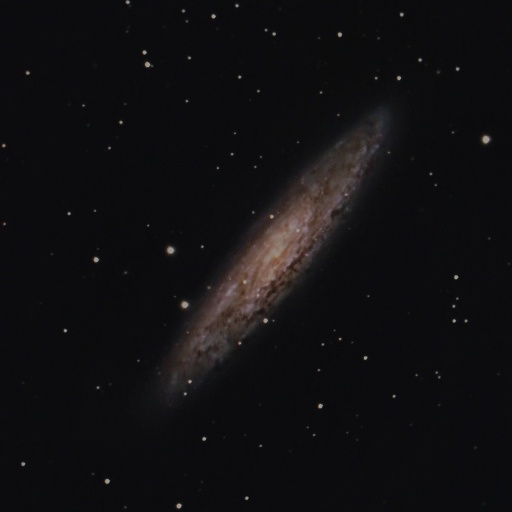
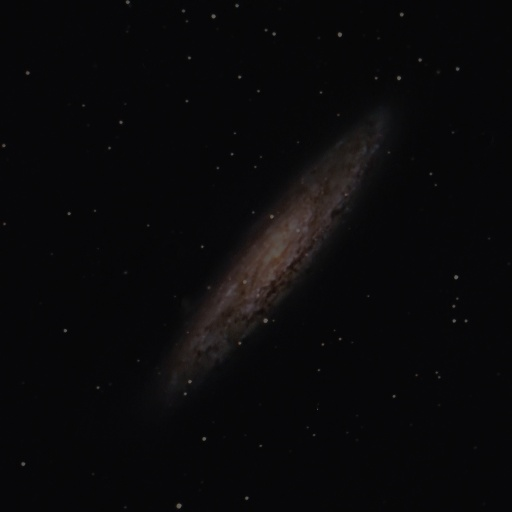
* Added four additional asteroid types. * Made background darker and removed some of the brighter stars which could be seen as asteroids. * Changed starship size to 75%. * Laser now behaves more like in original asteroids (Wraps at screen edge) * Particles now have random speeds and fade out. * lase

diff --git a/src/main/javascript/jsteroids.js b/src/main/javascript/jsteroids.js
@@ -8,42 +8,84 @@ jsteroids.imagesDir = "images";
 jsteroids.backgrounds = 1;
 
 /** The number of available asteroid types. @type {Number} */
-jsteroids.asteroids = 1;
+jsteroids.asteroids = 5;
 
 /** The asteroid bounds. @private @type {Array} */
 jsteroids.ASTEROID_BOUNDS = [
     new twodee.Polygon([
-        new twodee.Vector(0 - 16, 11 - 16),
-        new twodee.Vector(9 - 16, 0 - 16),
-        new twodee.Vector(20 - 16, 0 - 16),
-        new twodee.Vector(31 - 16, 9 - 16),
-        new twodee.Vector(31 - 16, 18 - 16),
-        new twodee.Vector(22 - 16, 31 - 16),
-        new twodee.Vector(11 - 16, 31 - 16),
-        new twodee.Vector(4 - 16, 27 - 16),
-        new twodee.Vector(0 - 16, 18 - 16)
+        new twodee.Vector(-16, -5),
+        new twodee.Vector(-7, -16),
+        new twodee.Vector(4, -16),
+        new twodee.Vector(15, -7),
+        new twodee.Vector(15, 2),
+        new twodee.Vector(6, 15),
+        new twodee.Vector(-5, 15),
+        new twodee.Vector(-12, 11),
+        new twodee.Vector(-16, -2)
+    ]),
+    new twodee.Polygon([
+        new twodee.Vector(-15, -6),
+        new twodee.Vector(-6, -16),
+        new twodee.Vector(4, -16),
+        new twodee.Vector(15, -7),
+        new twodee.Vector(15, 7),
+        new twodee.Vector(6, 15),
+        new twodee.Vector(-8, 15),
+        new twodee.Vector(-16, 4)
+    ]),
+    new twodee.Polygon([
+        new twodee.Vector(-16, -4),
+        new twodee.Vector(-8, -15),
+        new twodee.Vector(-2, -16),
+        new twodee.Vector(9, -16),
+        new twodee.Vector(15, -4),
+        new twodee.Vector(15, 8),
+        new twodee.Vector(7, 15),
+        new twodee.Vector(-7, 15),
+        new twodee.Vector(-16, 5)
+    ]),
+    new twodee.Polygon([
+        new twodee.Vector(-16, -11),
+        new twodee.Vector(-1, -11),
+        new twodee.Vector(15, 0),
+        new twodee.Vector(15, 9),
+        new twodee.Vector(13, 11),
+        new twodee.Vector(6, 11),
+        new twodee.Vector(-9, 5),
+        new twodee.Vector(-16, -5)
+    ]),
+    new twodee.Polygon([
+        new twodee.Vector(15, -16),
+        new twodee.Vector(14, -5),
+        new twodee.Vector(6, 6),
+        new twodee.Vector(-5, 15),
+        new twodee.Vector(-16, 12),
+        new twodee.Vector(-16, 2),
+        new twodee.Vector(-11, -7),
+        new twodee.Vector(1, -14)
     ])
 ];
 
 /** The main thrust polygon. @private @type {twodee.Polygon} */
 jsteroids.MAIN_THRUST = new twodee.Polygon([
-    new twodee.Vector(0, 10 + 25),
-    new twodee.Vector(-2.5, 25),
-    new twodee.Vector(2.5, 25)
+    new twodee.Vector(0, 26),
+    new twodee.Vector(-2, 19),
+    new twodee.Vector(0, 20),
+    new twodee.Vector(2, 19)
 ]);    
 
 /** The left thrust polygon. @private @type {twodee.Polygon} */
 jsteroids.LEFT_THRUST = new twodee.Polygon([
-    new twodee.Vector(8 + 6, 0 - 14),
-    new twodee.Vector(0 + 6, -1.5 - 14),
-    new twodee.Vector(0 + 6, 1.5 - 14)
+    new twodee.Vector(10, -12),
+    new twodee.Vector(4, -13),
+    new twodee.Vector(4, -11)
 ]);    
 
 /** The right thrust polygon. @private @type {twodee.Polygon} */
 jsteroids.RIGHT_THRUST = new twodee.Polygon([
-    new twodee.Vector(-8 - 6, 0 - 14),
-    new twodee.Vector(0 - 6, -1.5 - 14),
-    new twodee.Vector(0 - 6, 1.5 - 14)
+    new twodee.Vector(-10, -12),
+    new twodee.Vector(-4, -13),
+    new twodee.Vector(-4, -11)
 ]);    
 
 /** The laser polygon. @private @type {twodee.Polygon} */
@@ -64,12 +106,11 @@ jsteroids.PARTICLE = new twodee.Polygon([
 
 /** The spaceship bounds. @private @type {twodee.Polygon} */
 jsteroids.SPACESHIP_BOUNDS = new twodee.Polygon([
-    new twodee.Vector(0 - 16, 34 - 24),
-    new twodee.Vector(15 - 16, 0 - 24),
-    new twodee.Vector(16 - 16, 0 - 24),
-    new twodee.Vector(31 - 16, 34 - 24),
-    new twodee.Vector(31 - 16, 41 - 24),
-    new twodee.Vector(20 - 16, 47 - 24),
-    new twodee.Vector(11 - 16, 47 - 24),
-    new twodee.Vector(0 - 16, 41 - 24)
+    new twodee.Vector(-11,  8),
+    new twodee.Vector(  0, -18),
+    new twodee.Vector( 11,  8),
+    new twodee.Vector( 11,  13),
+    new twodee.Vector(  4,  17),
+    new twodee.Vector( -4,  17),
+    new twodee.Vector(-11,  13)
 ]);

diff --git a/src/main/javascript/jsteroids/Spaceship.js b/src/main/javascript/jsteroids/Spaceship.js
@@ -52,7 +52,7 @@ jsteroids.Spaceship = function(game)
     
     // Setup the spaceship physics
     physics = new twodee.Physics();
-    physics.setMaxVelocity(250);
+    physics.setMaxVelocity(200);
     physics.setMaxSpin(200 * Math.PI / 180);
     physics.setMinSpin(-200 * Math.PI / 180);
     this.setPhysics(physics);
@@ -67,7 +67,7 @@ twodee.inherit(jsteroids.Spaceship, twodee.ImageNode);
 jsteroids.Spaceship.YAW = 400 * Math.PI / 180;
 
 /** The thrust. @private @final @type {Number} */
-jsteroids.Spaceship.THRUST = 300;
+jsteroids.Spaceship.THRUST = 250;
 
 /** The game. @private @type {jsteroids.Game} */
 jsteroids.Spaceship.prototype.game = null; 
@@ -94,7 +94,7 @@ jsteroids.Spaceship.prototype.laserFiring = false;
 jsteroids.Spaceship.prototype.lastLaserFire = 0;
 
 /** The fire rate (shots per second). @private @type {Number} */
-jsteroids.Spaceship.prototype.fireRate = 5;
+jsteroids.Spaceship.prototype.fireRate = 4;
 
 /** If ship is currently yawing. @private @type {Boolean} */
 jsteroids.Spaceship.prototype.yawing = false;
@@ -176,6 +176,27 @@ jsteroids.Spaceship.prototype.stopFireLaser = function()
 
 
 /**
+ * Fires the laser cannon.
+ * 
+ * @private
+ */
+
+jsteroids.Spaceship.prototype.fireLaser = function()
+{
+    var laser, transform, speed, bbox;
+    
+    speed = jsteroids.Spaceship.THRUST * 1.2;
+    bbox = this.getBounds().getBoundingBox();
+    laser = new jsteroids.Laser(this.game);
+    transform = this.getTransform();
+    laser.getTransform().setTransform(transform).translate(0, -24);
+    laser.getPhysics().getVelocity().set(0, -speed).
+        rotate(transform.getRotationAngle()).add(this.physics.getVelocity());
+    this.parentNode.appendChild(laser);
+};
+
+
+/**
  * @see twodee.PolygonNode#update
  * 
  * @param {Number} delta
@@ -195,7 +216,7 @@ jsteroids.Spaceship.prototype.update = function(delta)
         now = new Date().getTime();
         if (this.lastLaserFire + 1000 / this.fireRate < now)
         {
-            this.game.fireLaser();
+            this.fireLaser();
             this.lastLaserFire = now;
         }
     }

diff --git a/src/main/javascript/jsteroids/Game.js b/src/main/javascript/jsteroids/Game.js
@@ -423,28 +423,6 @@ jsteroids.Game.prototype.handleKeyUp = function(event)
 
 
 /**
- * Fires the laser cannon.
- * 
- * @private
- */
-
-jsteroids.Game.prototype.fireLaser = function()
-{
-    var laser, transform, speed, bbox, spaceship;
-    
-    speed = jsteroids.Spaceship.THRUST * 2;
-    spaceship = this.spaceship;
-    bbox = spaceship.getBounds().getBoundingBox();
-    laser = new jsteroids.Laser(this);
-    transform = this.spaceship.getTransform();
-    laser.getTransform().setTransform(transform).translate(0, -32);
-    laser.getPhysics().getVelocity().set(0, -speed).
-        rotate(transform.getRotationAngle());
-    this.rootNode.appendChild(laser);
-};
-
-
-/**
  * Triggers an explosion at the position of the specified node.
  * 
  * @param {twodee.SceneNode} node
@@ -465,7 +443,7 @@ jsteroids.Game.prototype.explode = function(node)
         particle.setFillStyle("#fff");
         physics = new twodee.Physics();
         particle.setPhysics(physics);
-        physics.getVelocity().set(0, 200).rotate(heading);
+        physics.getVelocity().set(0, 150 + Math.random() * 100).rotate(heading);
         physics.setLifetime(1);
         this.rootNode.appendChild(particle);
     }
@@ -557,9 +535,10 @@ jsteroids.Game.prototype.endGame = function()
 jsteroids.Game.prototype.newGame = function()
 {
     this.gameOver = true;
-    this.stateLabel.innerHTML = "Version 0.0.1<br />Public Alpha<br /><br>Use K, L and A to steer the ship, Q to fire";
-    this.showStateLabel();
-    this.reset.bind(this).delay(5);
+//    this.stateLabel.innerHTML = "Version 0.0.1<br />Public Alpha<br /><br>Use K, L and A to steer the ship, Q to fire";
+  //  this.showStateLabel();
+    //this.reset.bind(this).delay(5);
+    this.reset();
 };
 
 

diff --git a/src/main/javascript/jsteroids/Laser.js b/src/main/javascript/jsteroids/Laser.js
@@ -30,7 +30,8 @@ jsteroids.Laser = function(game)
     
     // Set the Lasers physics model
     physics = new twodee.Physics();
-    physics.setLifetime(2);
+    physics.setLifetime(0.6);
+    physics.setDecay(0.2);
     this.setPhysics(physics);
     
     // Enable collision detection
@@ -72,7 +73,7 @@ jsteroids.Laser.prototype.handleCollide = function(laser, collider)
  *            The time delta in milliseconds
  */
 
-jsteroids.Laser.prototype.update = function(delta)
+jsteroids.Laser.prototype.update2 = function(delta)
 {
     var x, y, transform, xRadius, yRadius, bbox, game;
     
@@ -91,4 +92,35 @@ jsteroids.Laser.prototype.update = function(delta)
     y = transform.m12;
     if (x > xRadius || x < -xRadius || y > yRadius || y < -yRadius)
         this.remove();
+};
+
+
+/**
+ * @see twodee.PolygonNode#update
+ * 
+ * @param {Number} delta
+ *            The time delta in milliseconds
+ */
+
+jsteroids.Laser.prototype.update = function(delta)
+{
+    var x, y, transform, xRadius, yRadius, bbox, game;
+    
+    twodee.PolygonNode.prototype.update.call(this, delta);
+    
+    transform = this.getTransform();
+
+    // Calculate the maximum x and y radius of the position
+    bbox = this.getBounds().getBoundingBox();
+    game = this.game;
+    xRadius = (game.width + bbox.getWidth()) / 2;
+    yRadius = (game.height + bbox.getHeight()) / 2;
+    
+    // Correct the position if out of screen
+    x = transform.m02;
+    y = transform.m12;
+    if (x > xRadius) transform.m02 = -xRadius;
+    if (x < -xRadius) transform.m02 = xRadius;
+    if (y > yRadius) transform.m12 = -yRadius;
+    if (y < -yRadius) transform.m12 = yRadius;   
 };

diff --git a/src/main/javascript/jsteroids/Asteroid.js b/src/main/javascript/jsteroids/Asteroid.js
@@ -58,8 +58,8 @@ jsteroids.Asteroid = function(game, parentAsteroid)
     
     // Calculate a random heading and a level-specific speed
     heading = 22.5 + Math.random() * 45 + parseInt(Math.random() * 4) * 90;
-    minSpeed = 25 + level * 5;
-    maxSpeed = 50 + level * 5;
+    minSpeed = 25 + level * 3;
+    maxSpeed = 40 + level * 3;
     physics.getVelocity().set(minSpeed + Math.random() * (maxSpeed - minSpeed),
         0).rotate(heading * Math.PI / 180);
     
